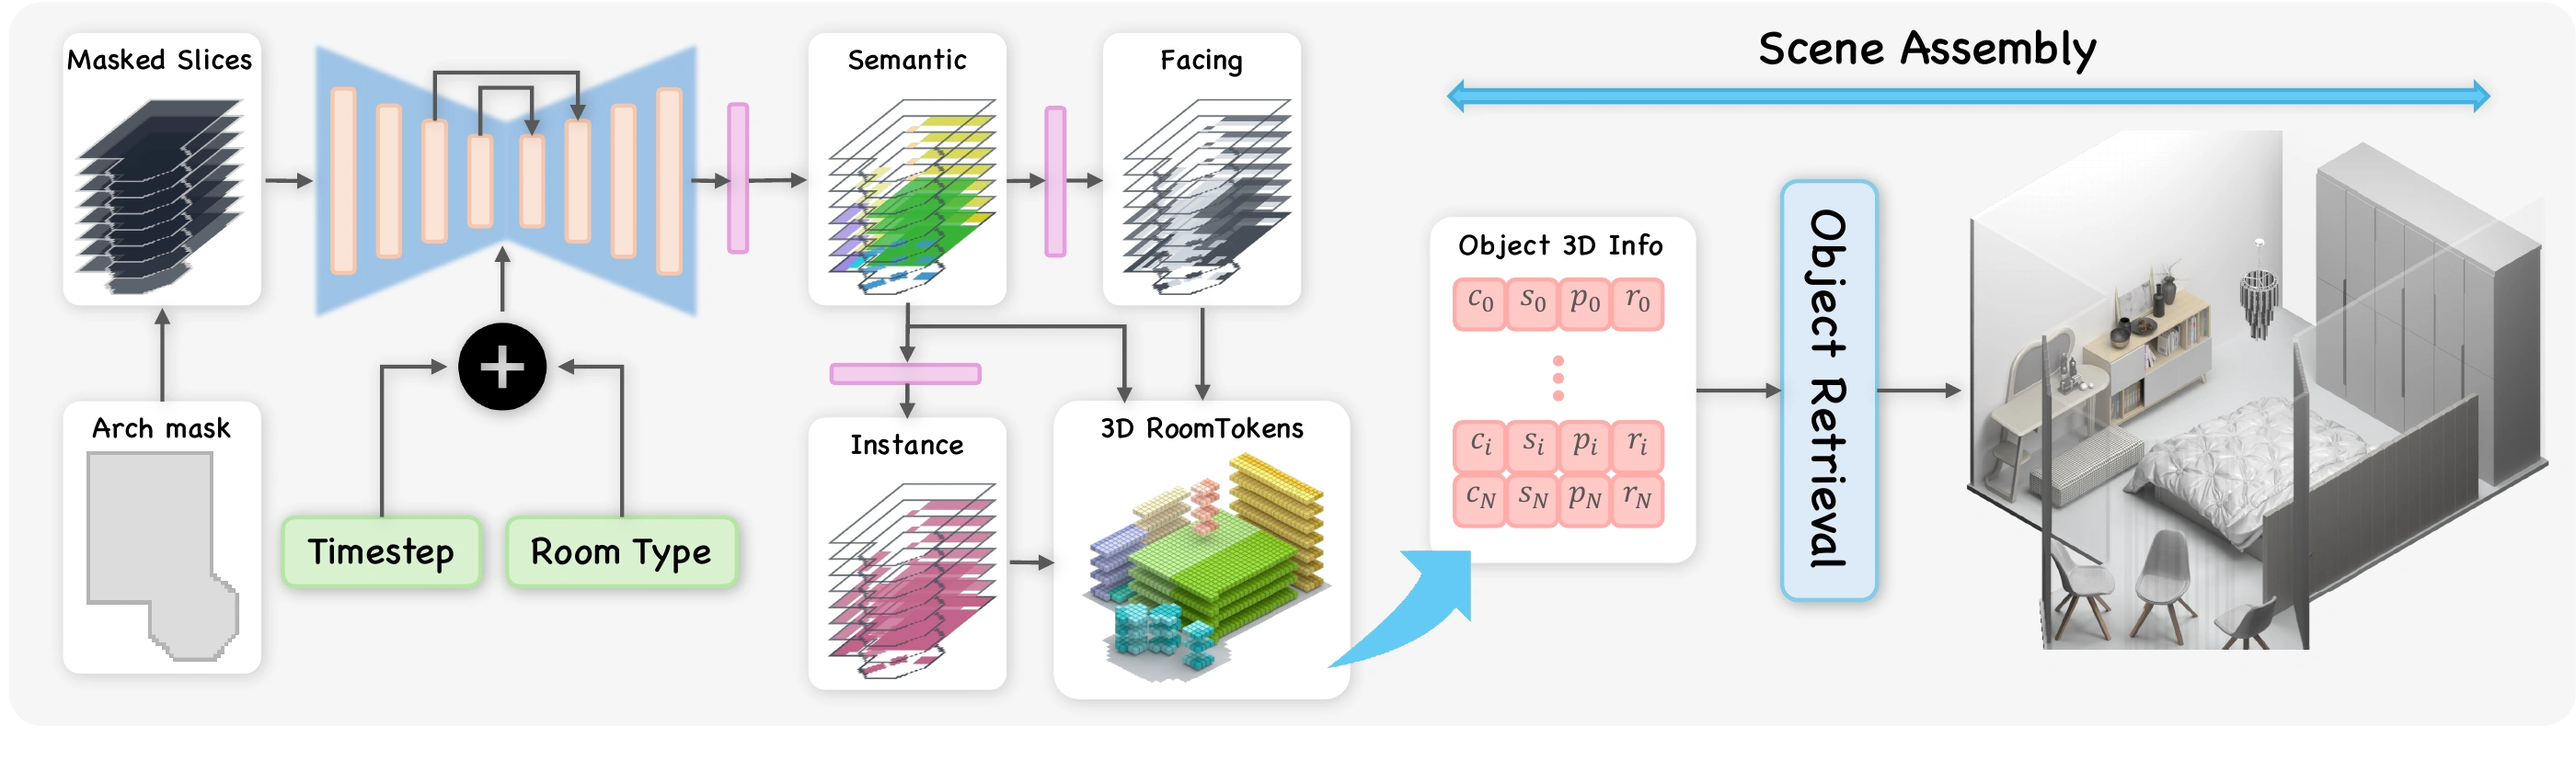
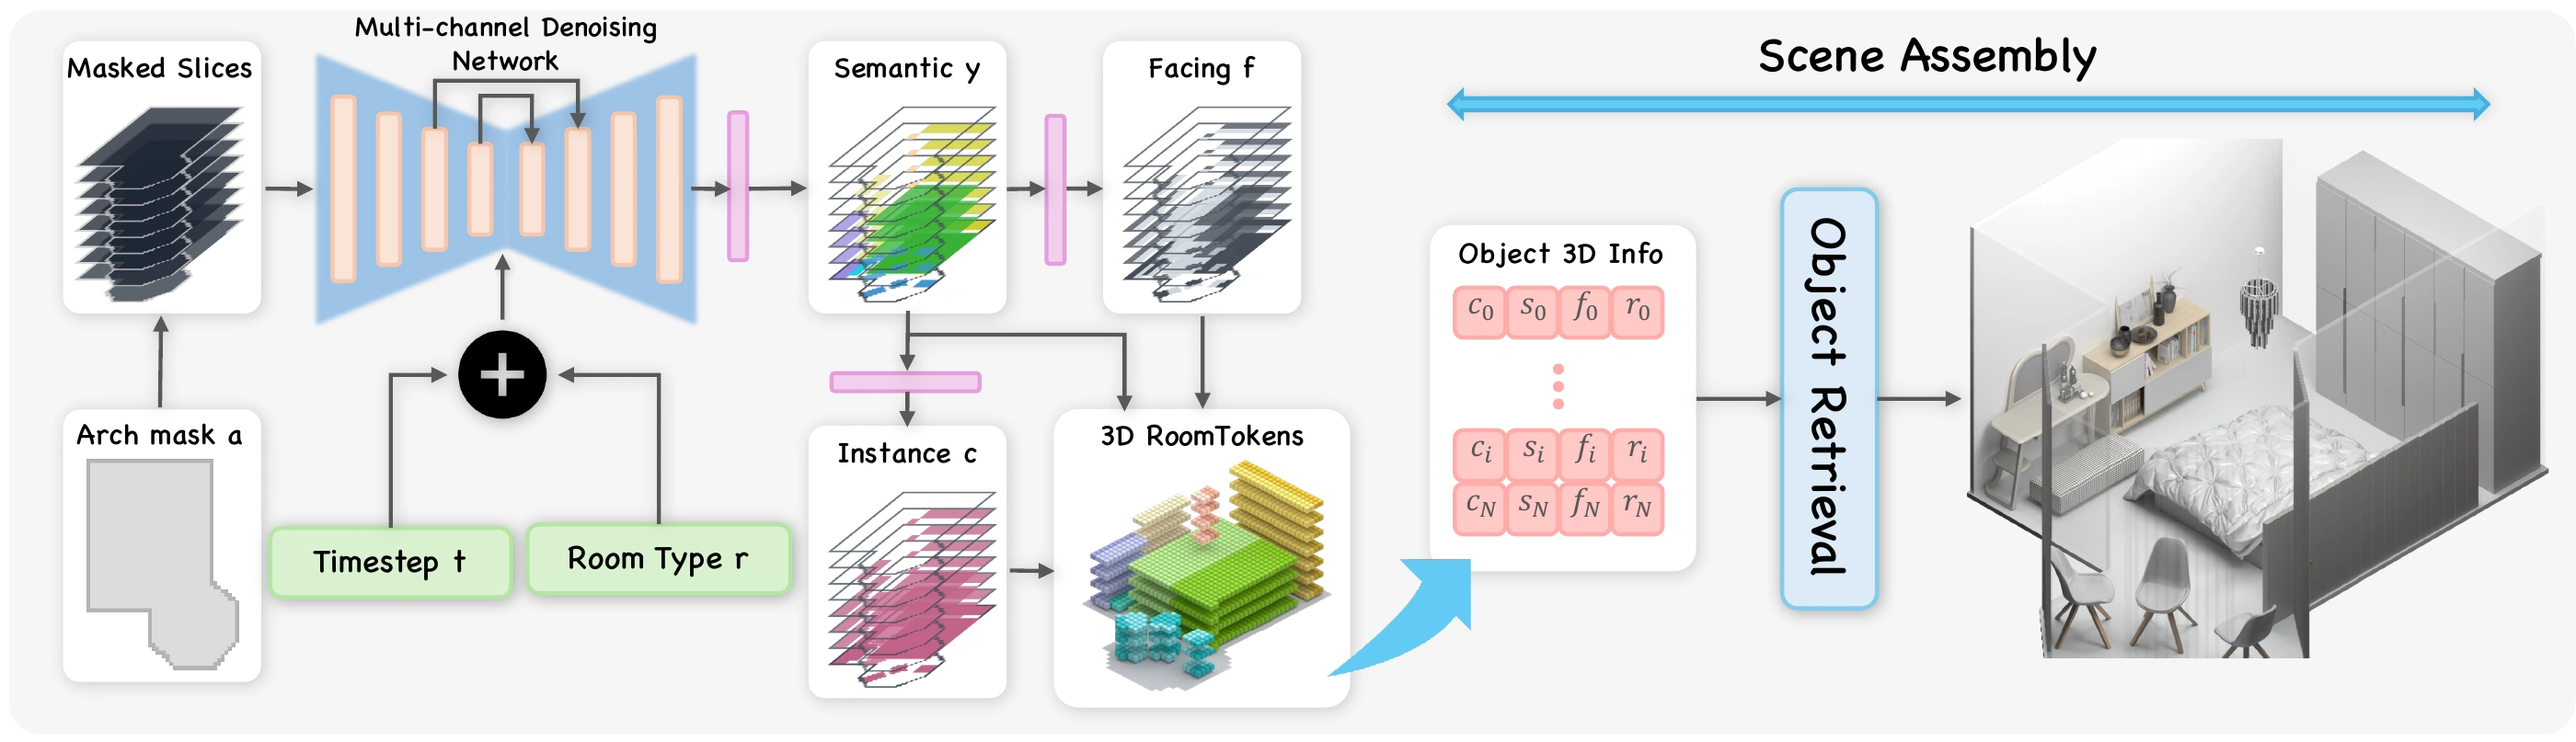
Update the method figure and link the code repository

diff --git a/docs/index.html b/docs/index.html
@@ -27,7 +27,7 @@
       </div>
       <nav class="project-links" aria-label="Project resources">
         <button type="button" disabled title="Paper coming soon">Paper <small>Coming soon</small></button>
-        <button type="button" disabled title="Code coming soon">Code <small>Coming soon</small></button>
+        <a href="https://github.com/3dlg-hcvc/RoomToken">Code</a>
         <button type="button" disabled title="Video link coming soon">Video <small>Coming soon</small></button>
       </nav>
     </div></div>
@@ -60,7 +60,7 @@
       <figure class="figure-wide">
         <figcaption>Given input architecture, MDiRT progressively denoises masked RoomTokens while keeping architectural tokens fixed. Cross-slice attention shares information across heights to generate consistent object structure. We then group tokens into objects, recover their category, size, and pose, and retrieve and place matching 3D assets to form a furnished room.</figcaption>
         <a href="assets/figures/method.webp" target="_blank" rel="noopener" aria-label="Open method figure at full resolution">
-          <img src="assets/figures/method.webp" alt="MDiRT denoises structured tokens with architectural conditioning and cross-slice attention, then groups objects and retrieves furniture." width="2800" loading="lazy">
+          <img src="assets/figures/method.webp" alt="MDiRT takes masked slices and an architectural mask, predicts semantic, instance-color, and facing slices, then groups the tokens into objects and retrieves matching furniture." width="2800" height="807" loading="lazy">
         </a>
       </figure>
     </section>
